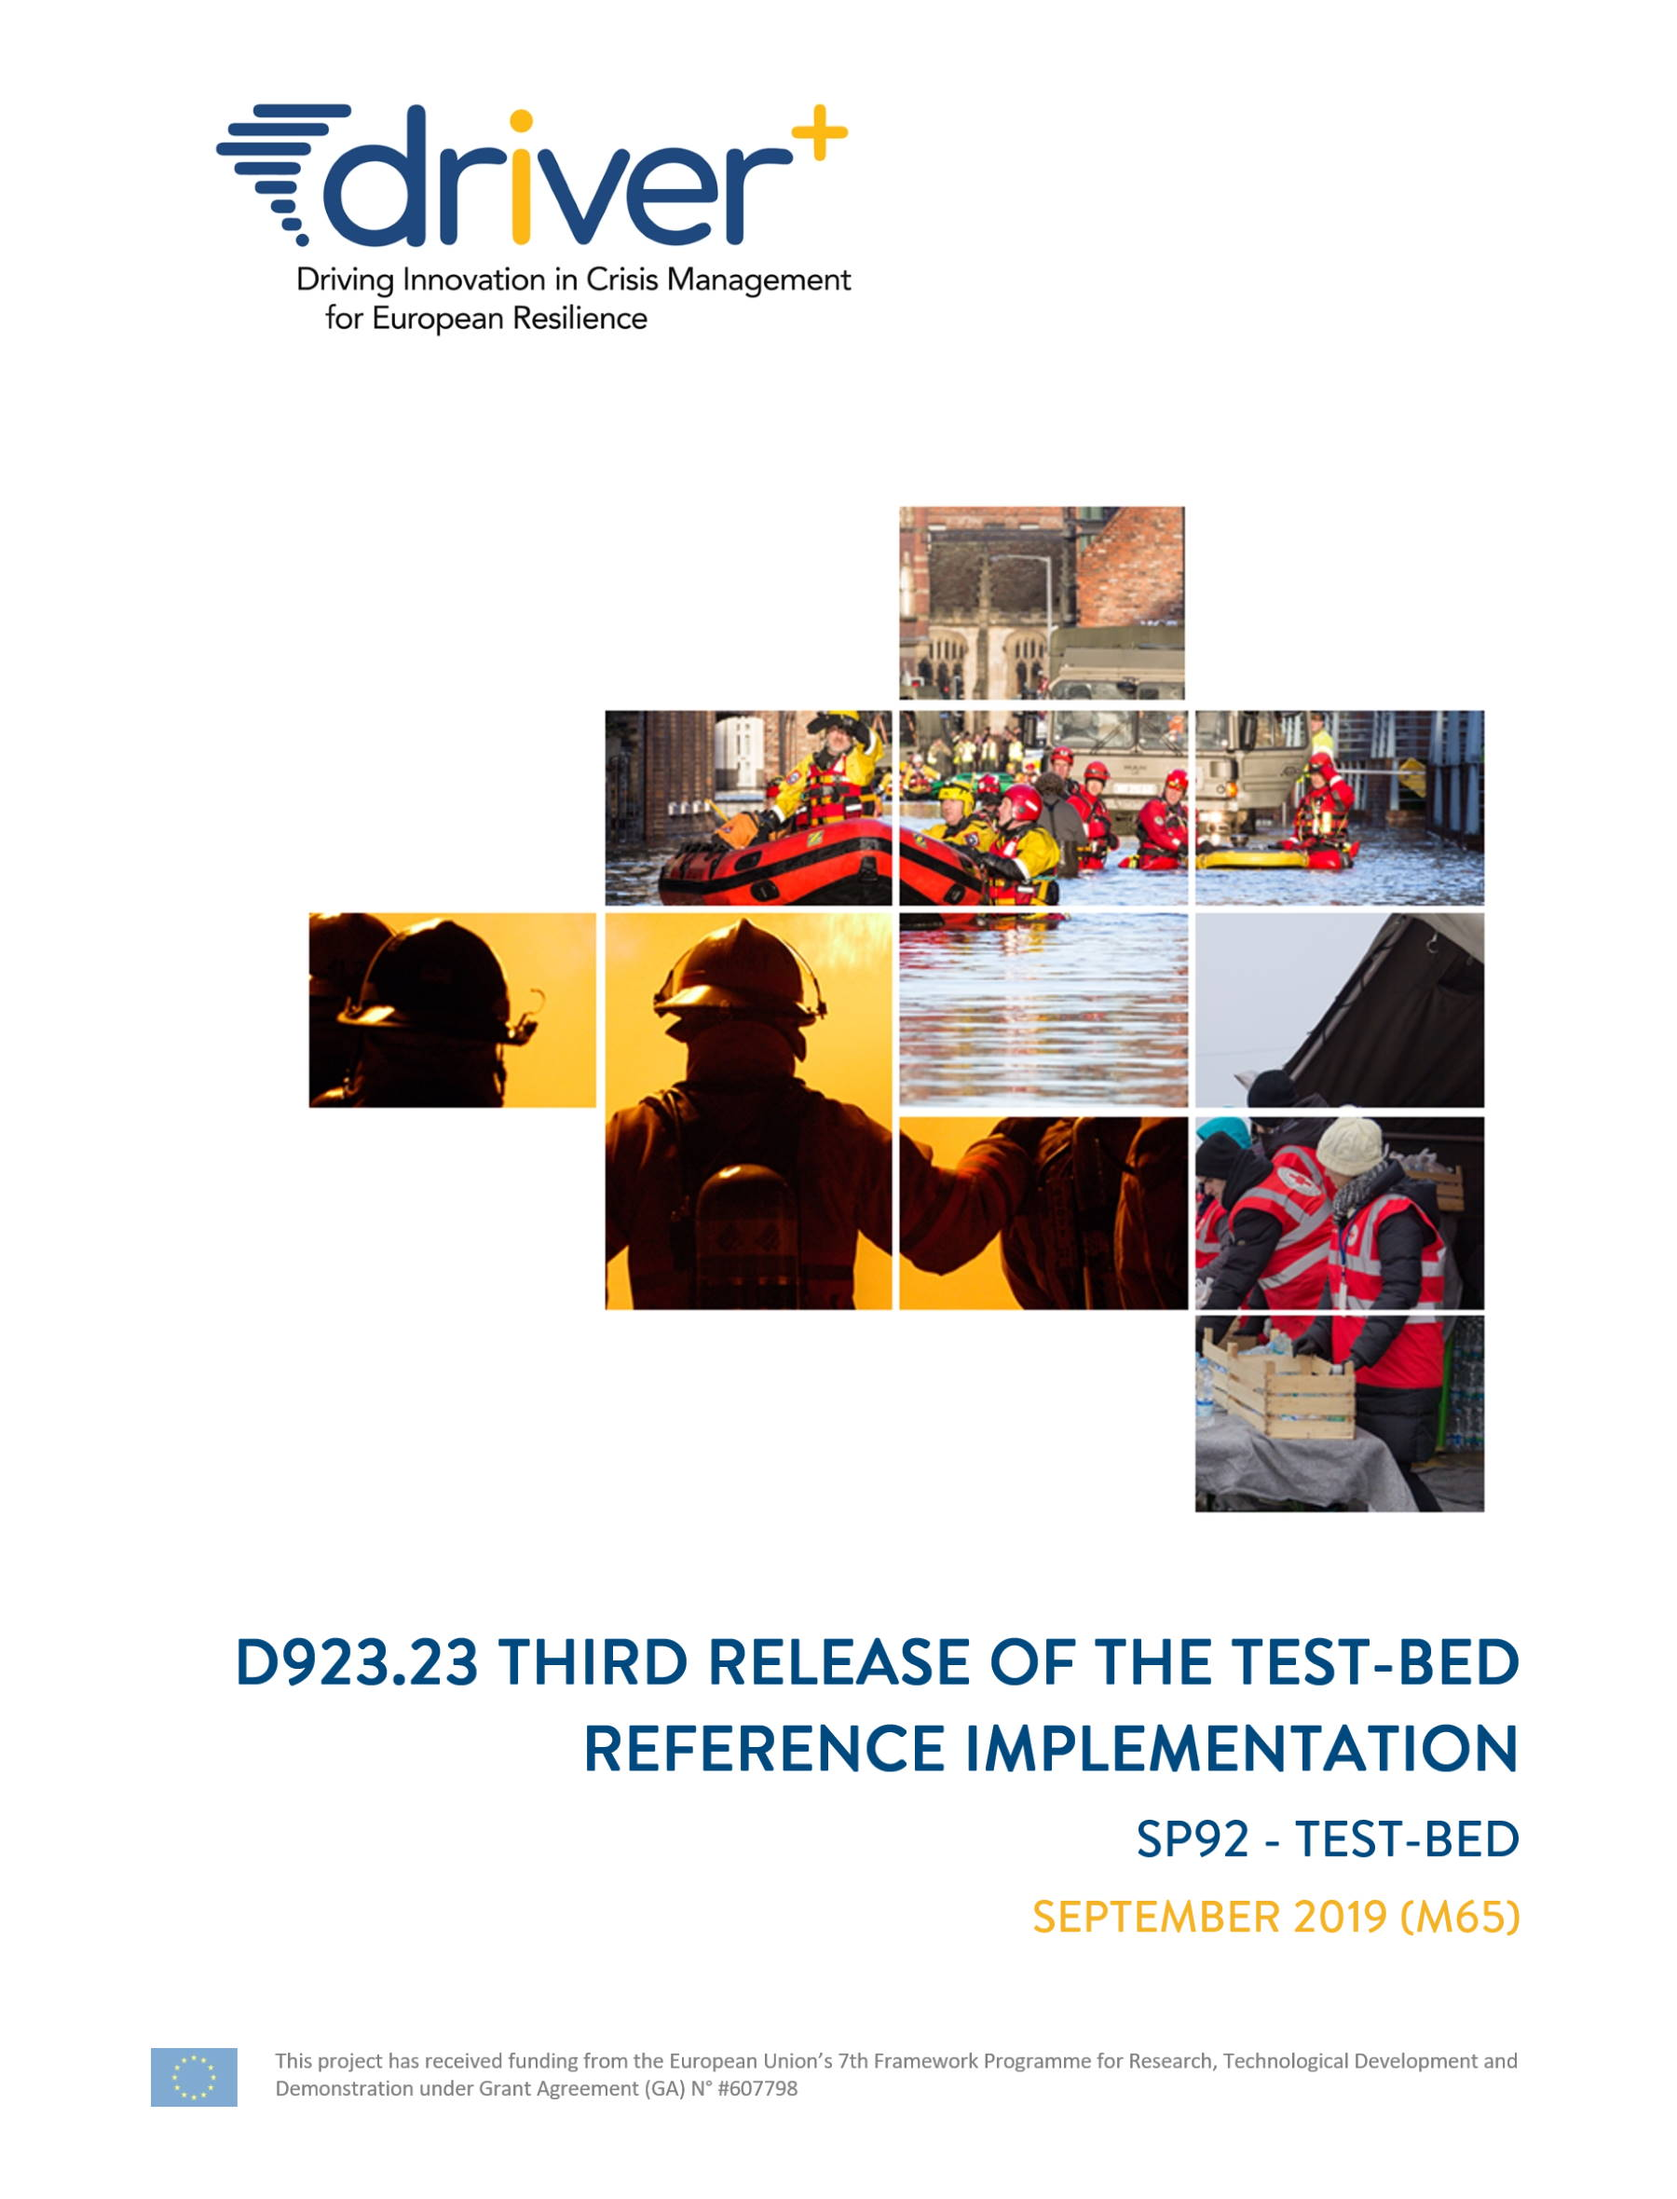
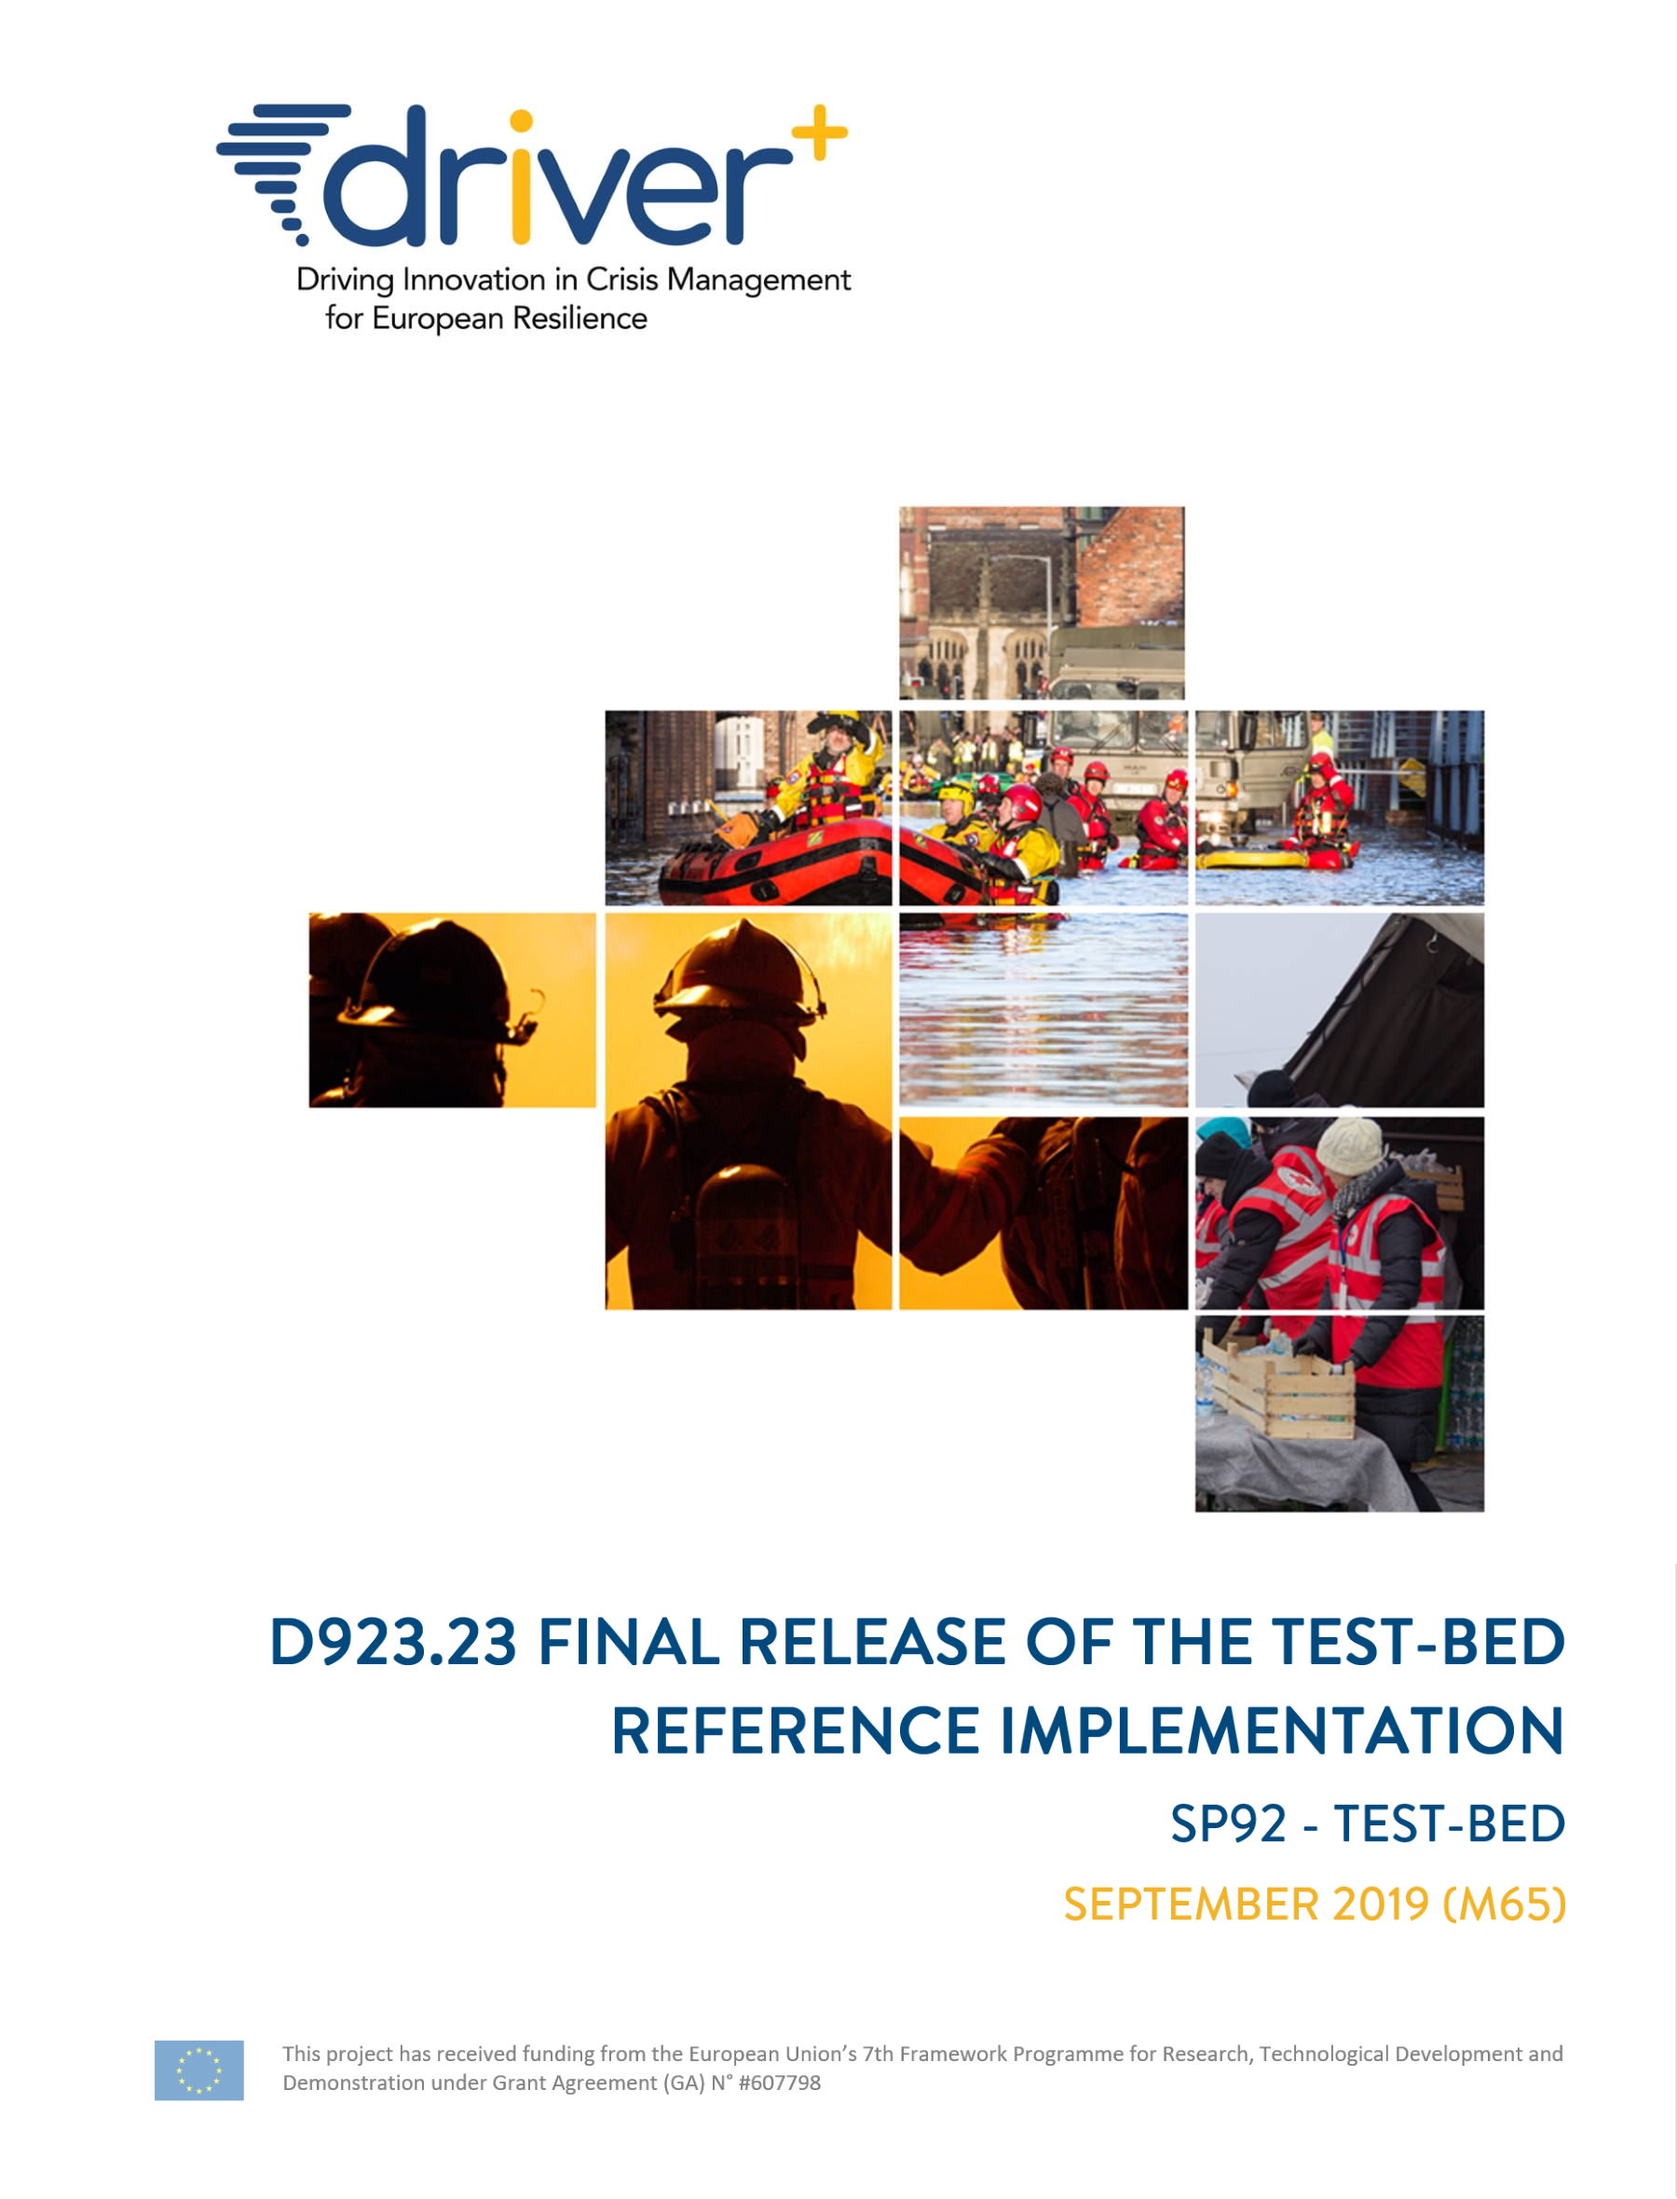
Updated title and covers

Changed region(s): [[0.1244, 0.7114, 0.9333, 0.897], [0.0933, 0.928, 0.9022, 0.9589], [0.9956, 0.7114, 1.0, 1.0]]

diff --git a/doc/about.md b/doc/about.md
@@ -13,7 +13,7 @@
 
 <table style="border: 2px solid black">
   <tr><td style="font-weight: bold; color: white; background: #00497E">Document Status:</td><td>Final</td></tr>
-<tr><td style="font-weight: bold; color: white; background: #00497E">Document Title:</td><td>D923.23 Test-bed reference implementation v3</td></tr>
+<tr><td style="font-weight: bold; color: white; background: #00497E">Document Title:</td><td>D923.23 Reference implementation v3: Final release of the test-bed reference implementation [M65]</td></tr>
   <tr><td style="font-weight: bold; color: white; background: #00497E">Document Nature:</td><td>Report (R)</td></tr>
   <tr><td style="font-weight: bold; color: white; background: #00497E">Dissemination Level:</td><td>Public (P)</td></tr>
   <tr><td style="font-weight: bold; color: white; background: #00497E">Due Date:</td><td>30/09/2019 </td></tr>
